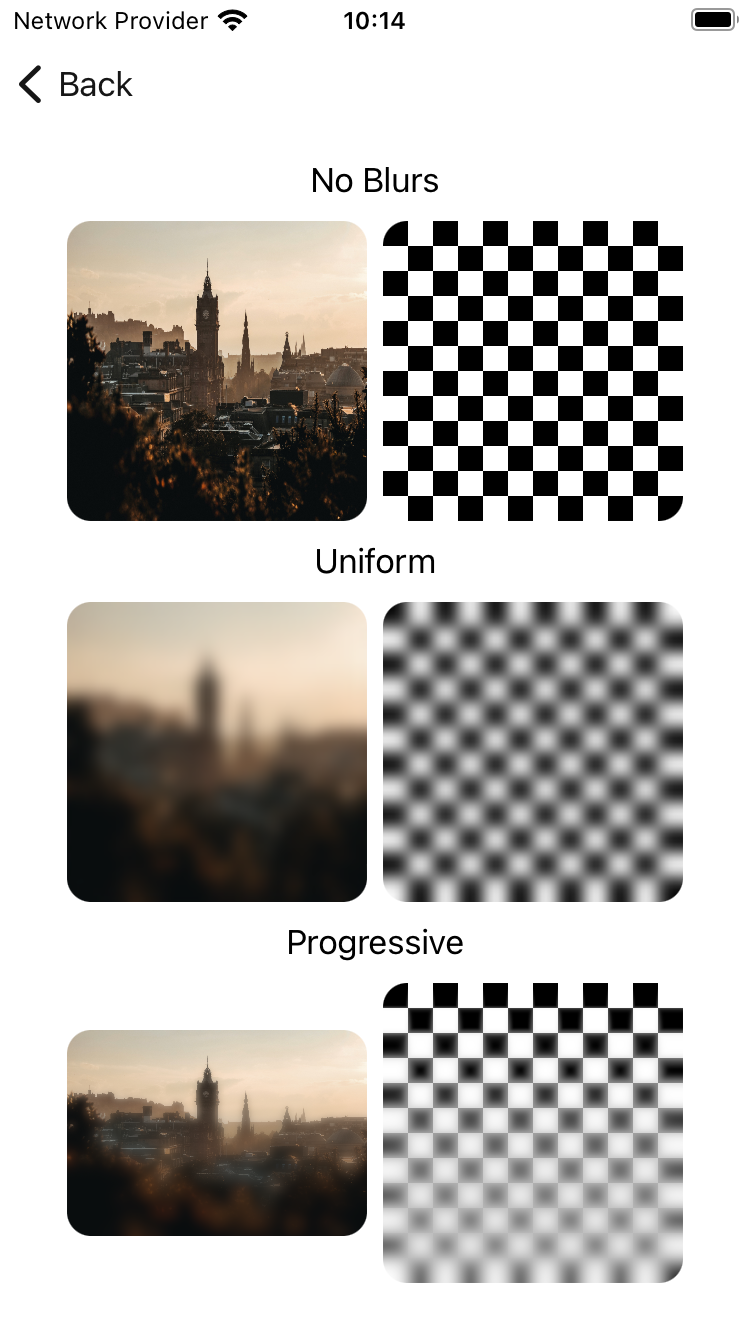
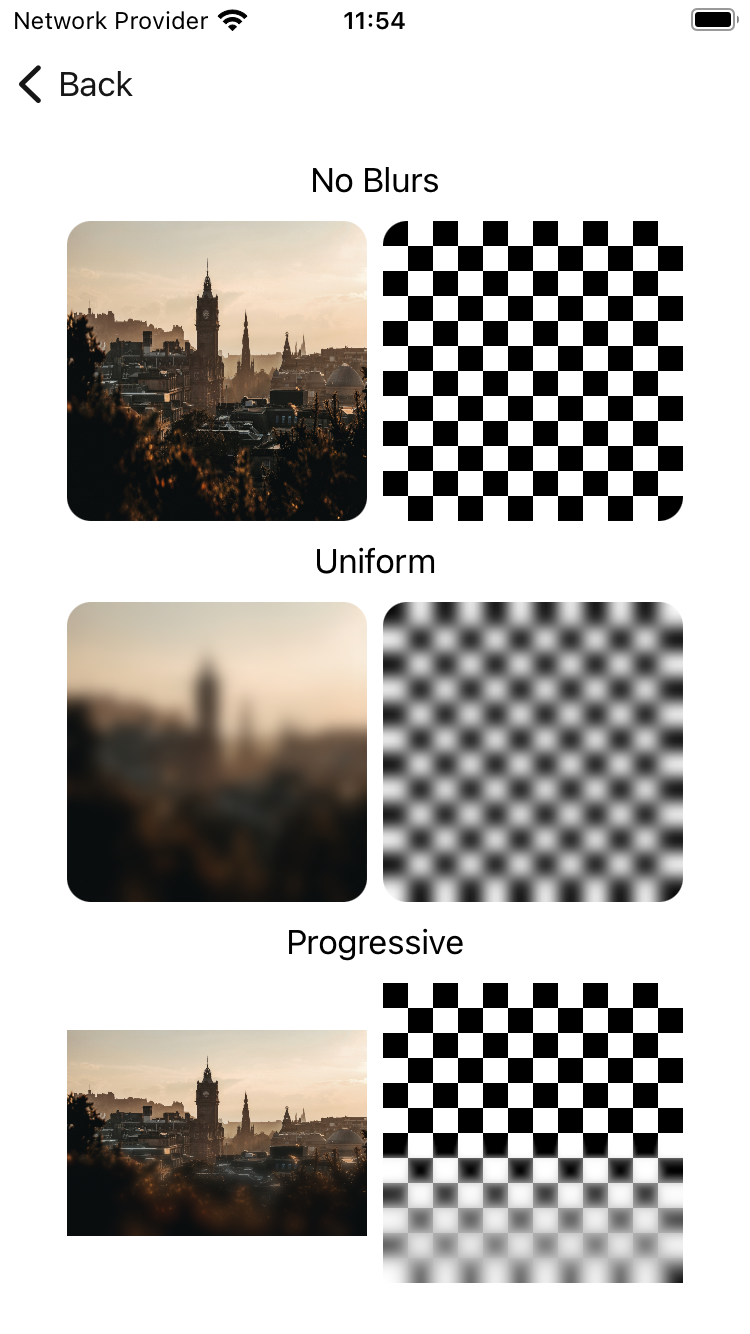
DON-1855 cleanup add images

diff --git a/Backpack-SwiftUI/Blur/Classes/BPKProgessiveBlurView.swift b/Backpack-SwiftUI/Blur/Classes/BPKProgessiveBlurView.swift
@@ -16,10 +16,10 @@
  * limitations under the License.
  */
 
+// swiftlint:disable indentation_width
 import CoreImage.CIFilterBuiltins
 import SwiftUI
 
-// swiftlint:disable indentation_width
 /// A SwiftUI view that displays an image with progressive blur effect.
 /// Progressive blur creates a variable blur effect across the image, typically used
 /// for creating depth or focus effects where parts of the image are more blurred than others.
@@ -31,7 +31,7 @@ public struct BPKProgessiveBlurView: View {
     private let imageName: String
     
     /// The blur radius value used for the progressive blur effect (24 points)
-    private let blurRadius: Float = 24
+    private var blurRadius: Float = 24
     
     /// The desired width for the displayed image
     private let width: CGFloat
@@ -81,11 +81,9 @@ public struct BPKProgessiveBlurView: View {
         guard let ciImage = CIImage(image: uiImage) else { return }
 
         // Create a mask that defines the blur intensity across different areas of the image
-        // NOTE: This method is missing from the current implementation
         let imageMask = getImageMask(maskExtent: ciImage.extent)
         
         // Apply variable blur using the mask - areas with different mask values get different blur amounts
-        // NOTE: This method is missing from the current implementation  
         let blurredImage = maskImageWithVaribleBlur(ciImage: ciImage, mask: imageMask, blurRadius: self.blurRadius)
         
         // Convert the processed CIImage back to CGImage

diff --git a/Backpack-SwiftUI/Blur/Classes/ProgressiveBlur.swift b/Backpack-SwiftUI/Blur/Classes/ProgressiveBlur.swift
@@ -16,6 +16,7 @@
  * limitations under the License.
  */
 
+// swiftlint:disable line_length
 import CoreImage.CIFilterBuiltins
 
 /// Applies variable blur to an image using a mask to control blur intensity across different regions.
@@ -58,7 +59,7 @@ func getImageMask(maskExtent: CGRect) -> CIImage {
     gradient.color0 = .white // Top of image gets maximum blur (white = full blur)
     gradient.color1 = .black // Bottom of image stays sharp (black = no blur)
     gradient.point0 = CGPoint(x: 0, y: 0) // Start point at top-left
-    gradient.point1 = CGPoint(x: 0, y: maskExtent.height) // End point at bottom-left (vertical gradient)
+    gradient.point1 = CGPoint(x: 0, y: maskExtent.height / 2) // End point at bottom-left (vertical gradient)
     
     // Crop the infinite gradient to match the image dimensions
     let baseGradient = gradient.outputImage.unsafelyUnwrapped
